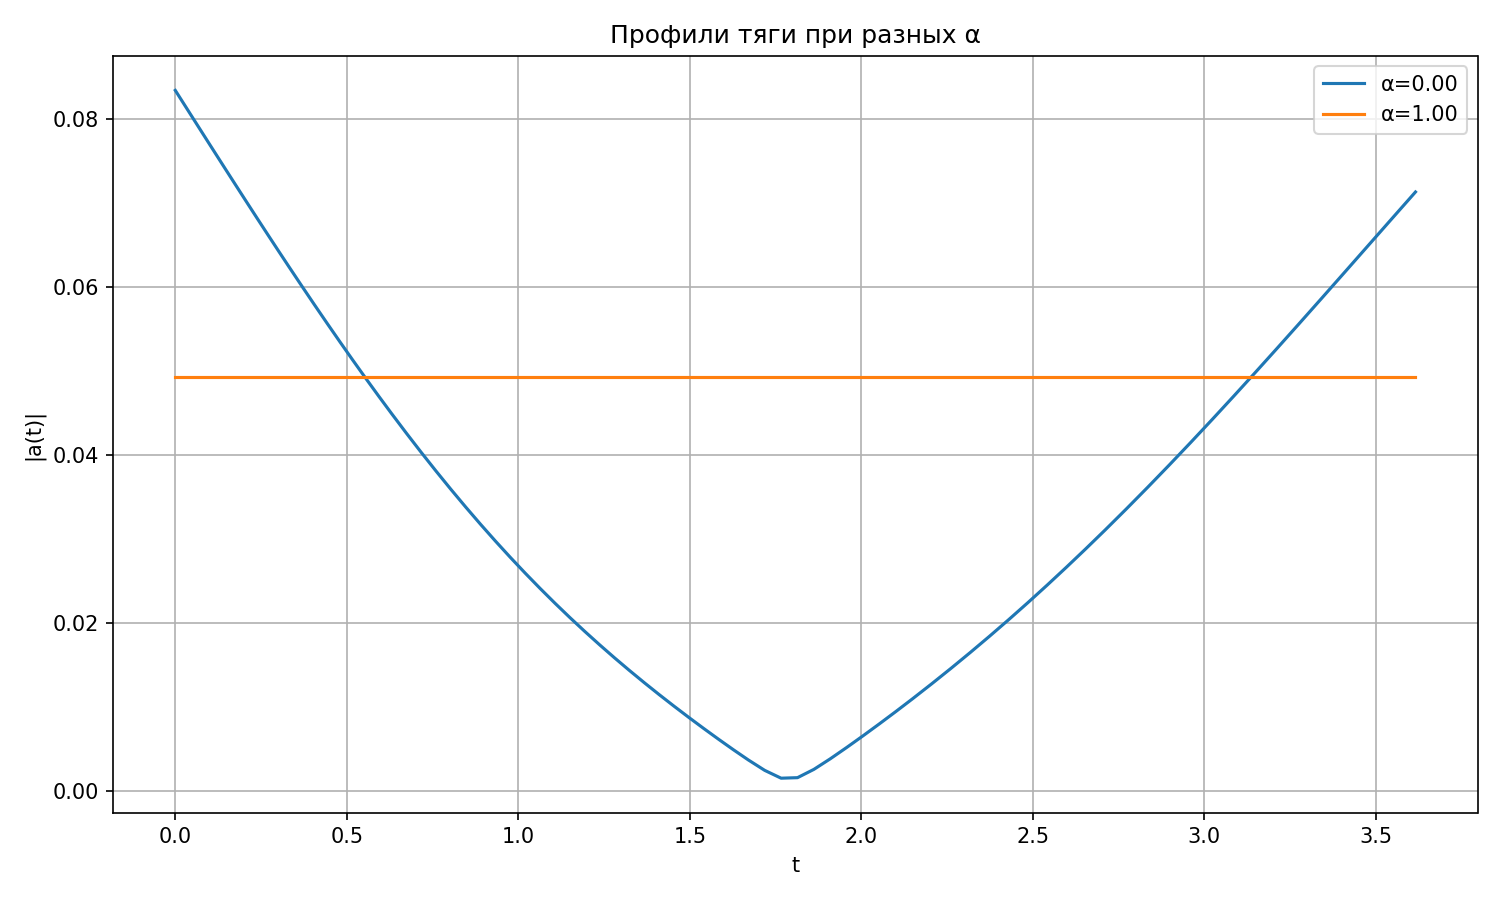
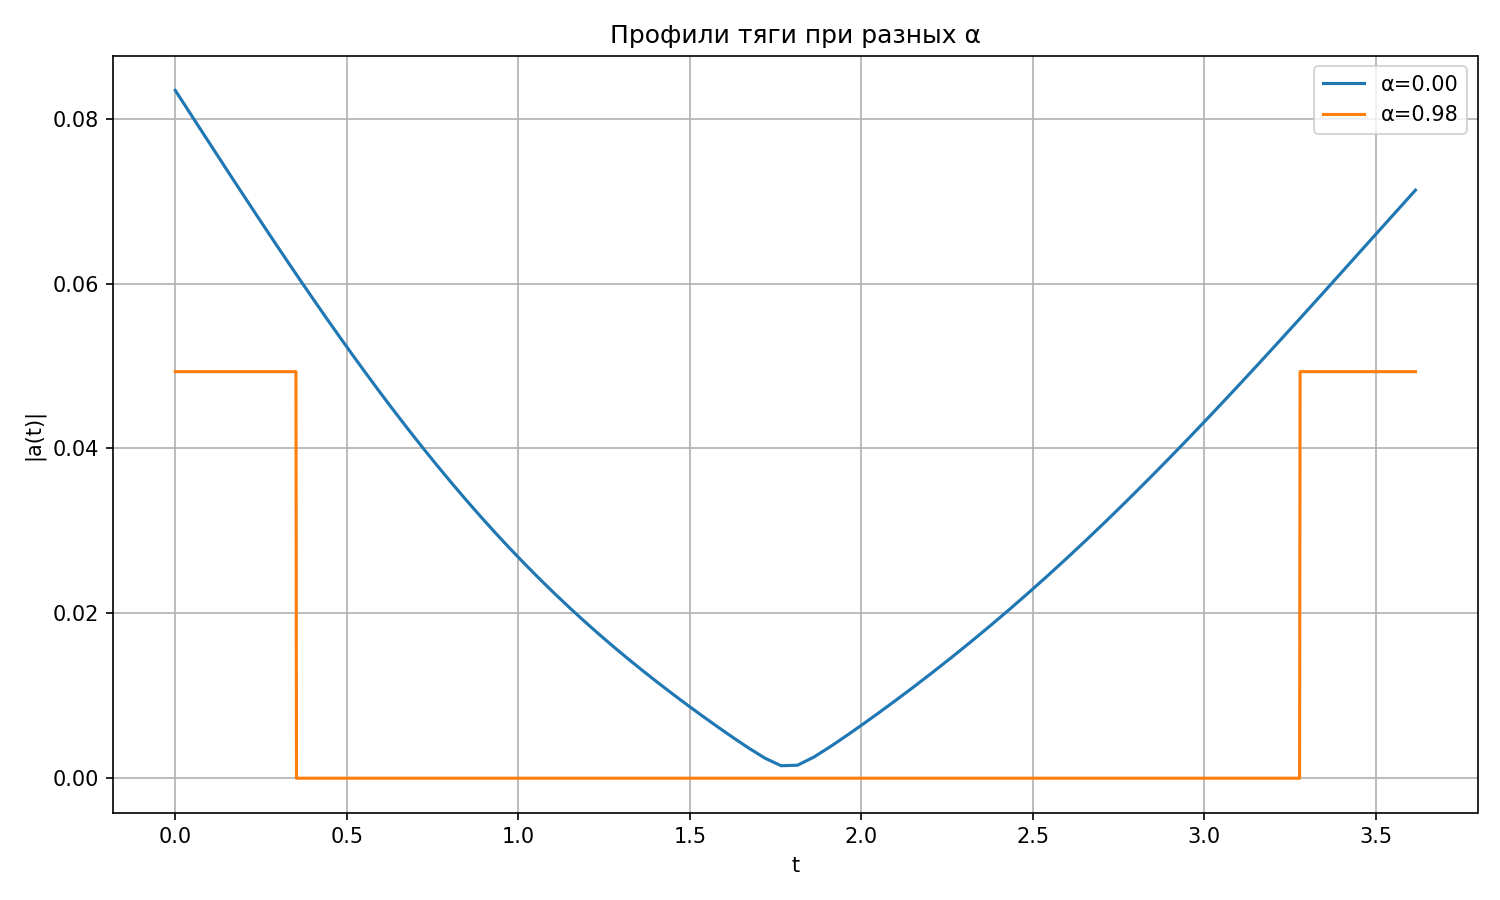
added final graph

diff --git a/result_traj.py b/result_traj.py
@@ -54,7 +54,6 @@ class OptimalControlSolver:
 
             return a
 
-
     def system_equations(self, t, y):
         r = y[0:3]
         v = y[3:6]
@@ -317,7 +316,7 @@ if __name__ == "__main__":
         print(f"α = {res['alpha']:.3f}, a_max = {res['a_max']:.6f}")
 
     if results:
-        plot_results = [results[0], results[-1]]
+        plot_results = [results[0], results[-2]]
         solver.plot_trajectories_2d(plot_results, 'continuation_trajectories.png')
         solver.plot_thrust_profiles(plot_results, 'thrust_profiles.png')
 
